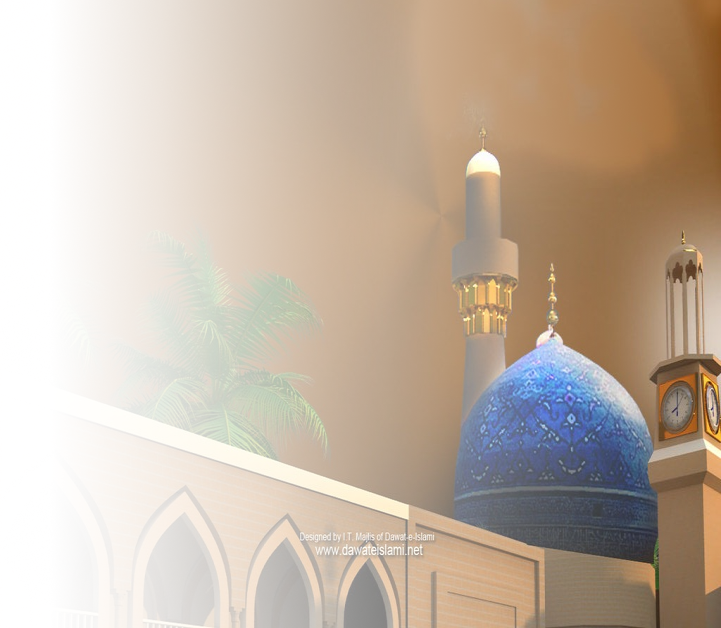
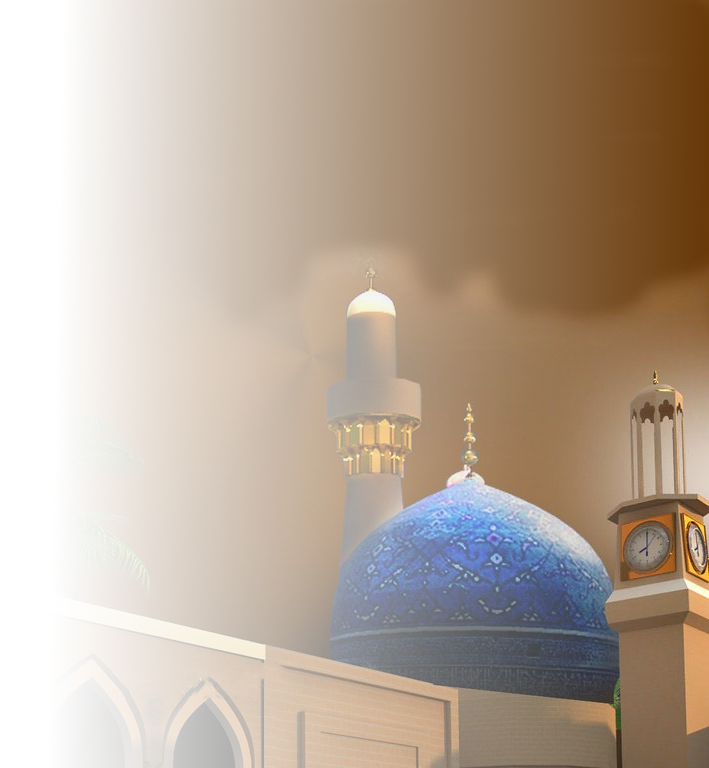
new holiday page

diff --git a/pages/umrahPackage.js b/pages/umrahPackage.js
@@ -317,7 +317,7 @@ Haj packages 2023,
           <div className={`${umrahStyles.top} ${umrahStyles.iraq}`}>
             <h1 className={umrahStyles.heading}>Iraq Ziyarat (10 Nights 11 Days)</h1>
             <div className={umrahStyles.date}>
-              <p>Departure on: JUNE</p>
+              <p>Departure on: 16 July 2023</p>
             </div>
             <ul className={umrahStyles.ul}>
               {/* <div className={styl.newiraqpkguls}>
@@ -388,7 +388,13 @@ Haj packages 2023,
                         <div className={umrahStyles.img}>
                         <Image src={tick} alt="tick icon"></Image>
                         </div>
-                        <p>Baghdad / Kazmain 5 Nights, Najaf 2 Nights, Karbala 3 Nights</p>
+                        <p>Baghdad / Kazmain 5 Nights</p>
+                    </li>
+                    <li>
+                        <div className={umrahStyles.img}>
+                        <Image src={tick} alt="tick icon"></Image>
+                        </div>
+                        <p>Najaf 2 Nights, Karbala 3 Nights</p>
                     </li>
                     <li>
                         <div className={umrahStyles.img}>
@@ -414,12 +420,7 @@ Haj packages 2023,
                         </div>
                         <p>All Indian Meals</p>
                     </li>
-                    <li>
-                        <div className={umrahStyles.img}>
-                        <Image src={tick} alt="tick icon"></Image>
-                        </div>
-                        <p>Ziyarat</p>
-                    </li>
+        
             </ul>
           </div>
 

diff --git a/styles/umrahCard.module.css b/styles/umrahCard.module.css
@@ -191,6 +191,7 @@
     .iraq{
         background-image: url(../public/newiraqziyaratshademb.png);
         background-position: right;
+        background-size: cover;
     }
     .wrapper{
         text-align: start;

diff --git a/styles/Umrah.module.css b/styles/Umrah.module.css
@@ -859,7 +859,7 @@
 
   .newziyaratpkg{
     display: flex;
-    justify-content: center;
+    justify-content: flex-start;
     align-items: center;
   }
 
